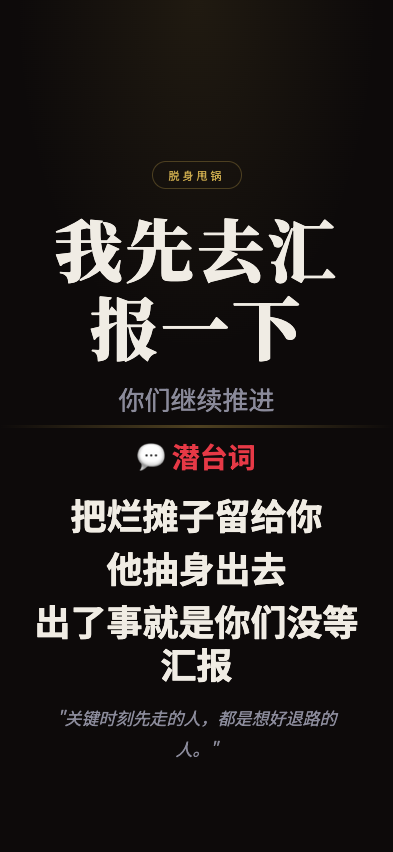
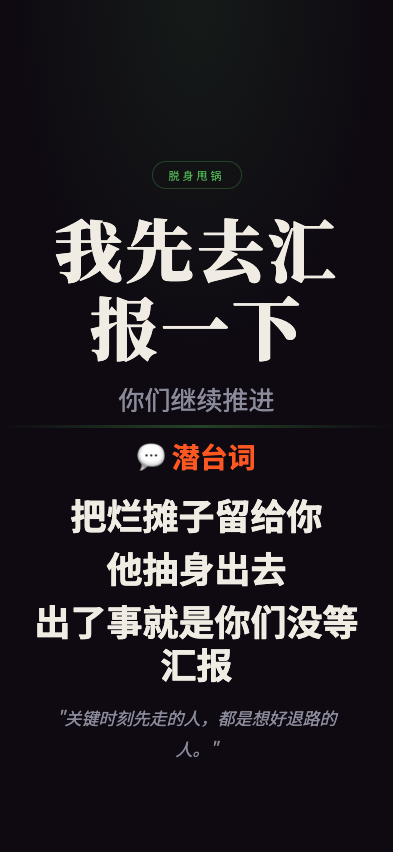
feat: 职场生存法则 screenshot - woxianquhuibaoyixia

Changed region(s): [[0.3053, 0.4883, 0.7023, 0.5493], [0.4275, 0.1831, 0.5802, 0.2136]]

diff --git a/wuliao-tools/tools/biz-speak/scenes/woxianquhuibaoyixia.html b/wuliao-tools/tools/biz-speak/scenes/woxianquhuibaoyixia.html
@@ -7,11 +7,11 @@
 <link href="https://fonts.googleapis.com/css2?family=Noto+Serif+SC:wght@400;700;900&family=Noto+Sans+SC:wght@300;400;700&display=swap" rel="stylesheet">
 <style>
   :root {
-    --bg: #0d0a0a;
+    --bg: #0f0a12;
     --text: #f0ece4;
     --text-dim: #8a8a9a;
-    --gold: #c9a84c;
-    --red: #e63946;
+    --gold: #4caf50;
+    --red: #ff5722;
   }
   * { margin:0; padding:0; box-sizing:border-box; }
   html, body { width:100%; height:100%; overflow:hidden; }
@@ -24,11 +24,11 @@
   }
   body::before {
     content:''; position:absolute; top:0; left:0; right:0; height:45%;
-    background:radial-gradient(ellipse at 50% 0%, rgba(201,168,76,0.1) 0%, transparent 65%);
+    background:radial-gradient(ellipse at 50% 0%, rgba(76,175,80,0.1) 0%, transparent 65%);
     pointer-events:none; z-index:0;
   }
   .top { flex:1; display:flex; flex-direction:column; align-items:center; justify-content:flex-end; padding:4px 28px 8px; position:relative; z-index:1; }
-  .tag { font-size:11px; letter-spacing:3px; color:var(--gold); border:1px solid rgba(201,168,76,0.3); padding:5px 16px; border-radius:50px; margin-bottom:20px; }
+  .tag { font-size:11px; letter-spacing:3px; color:var(--gold); border:1px solid rgba(76,175,80,0.3); padding:5px 16px; border-radius:50px; margin-bottom:20px; }
   .main-title { font-family:'Noto Serif SC'; font-size:68px; font-weight:900; text-align:center; line-height:1.15; letter-spacing:3px; min-width:0; overflow-wrap:break-word; max-width:92%; }
   .sub-title { font-size:26px; color:var(--text-dim); text-align:center; margin-top:14px; }
   .divider { width:100%; height:3px; background:linear-gradient(90deg,transparent,var(--gold),transparent); opacity:0.35; flex-shrink:0; position:relative; z-index:1; }
